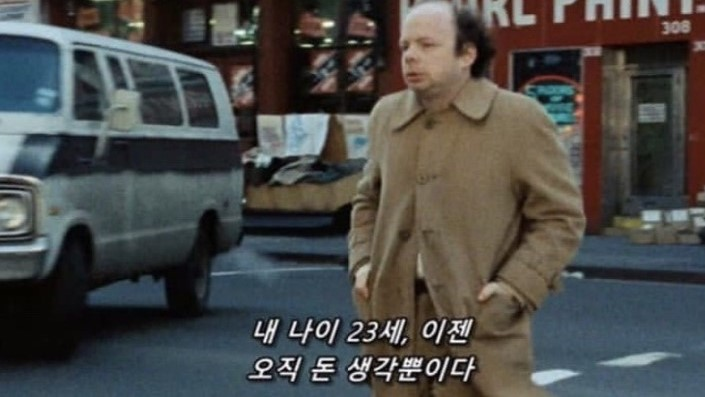
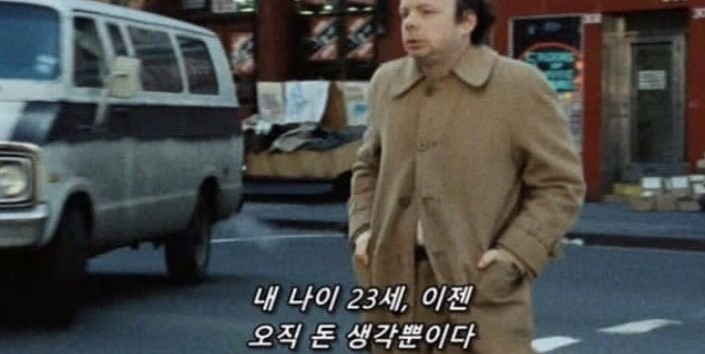
update mainpic

diff --git a/public/style/mainpage.css b/public/style/mainpage.css
@@ -132,7 +132,7 @@ h4 {
   background-repeat: no-repeat;
 }
 #img-box-fourth {
-  background-image: url("../asset/main_pic.jpg");
+  background-image: url("../asset/main_pic2.jpg");
   background-size: cover;
   background-position: 50% 50%;
   background-repeat: no-repeat;
